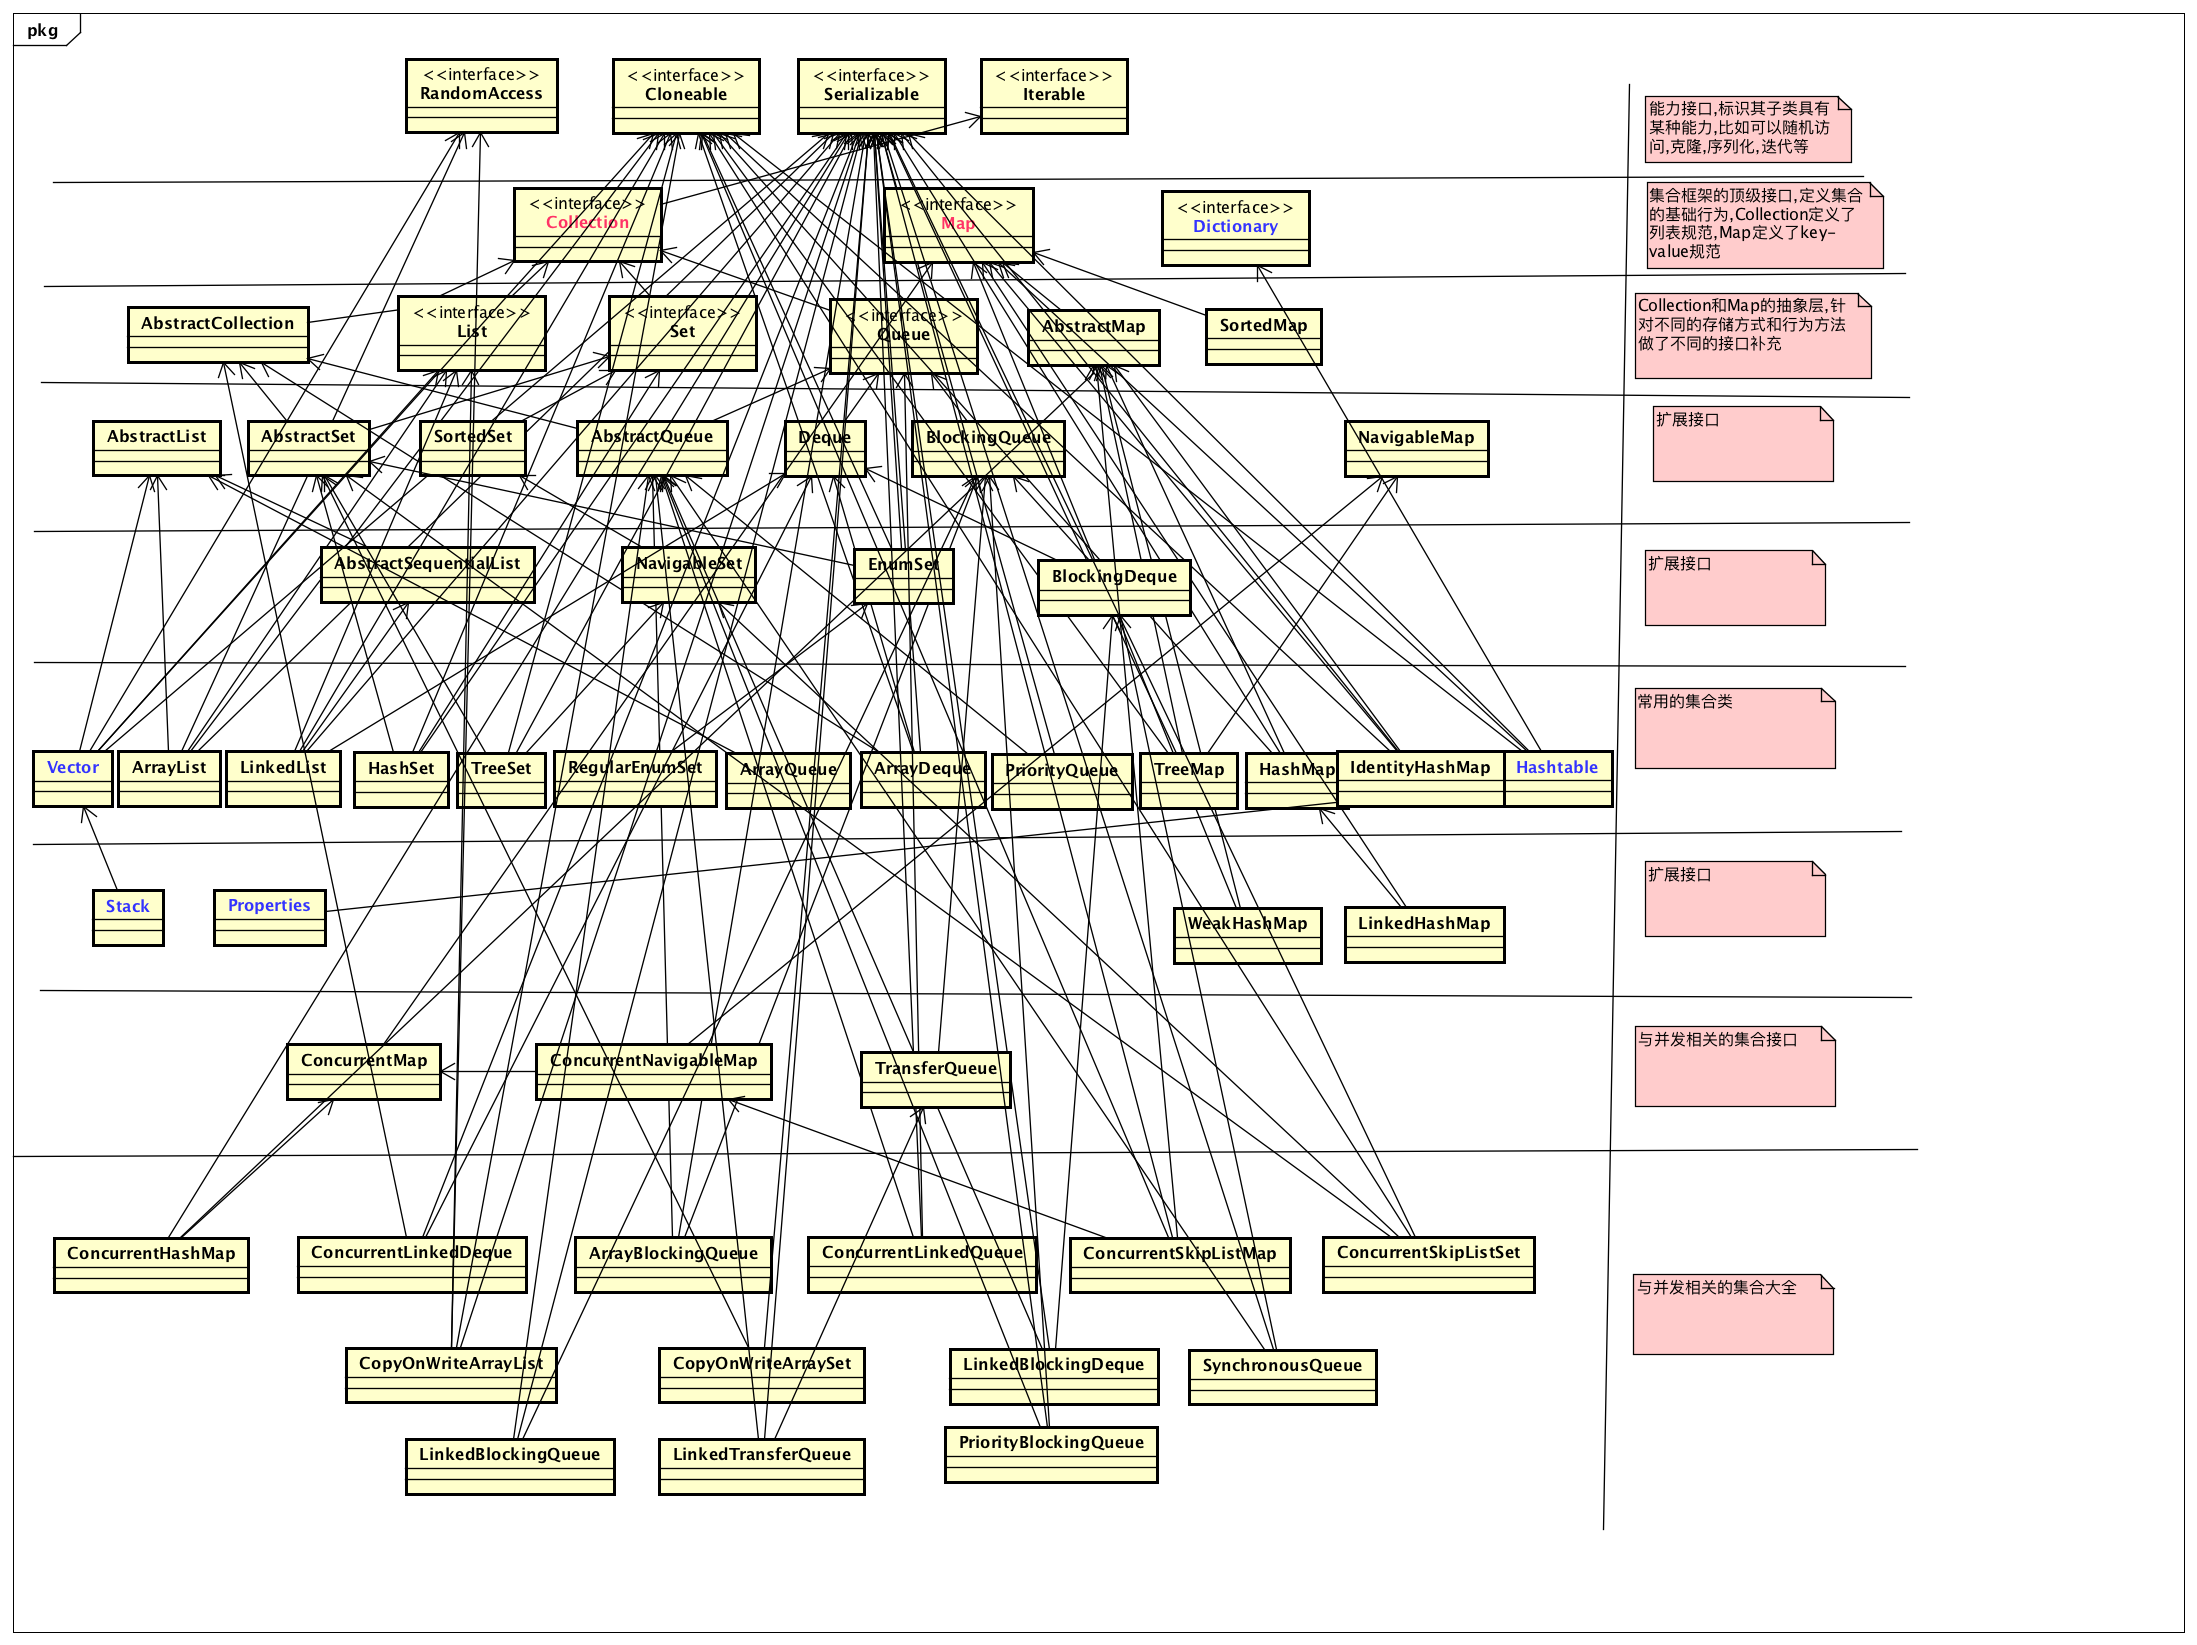
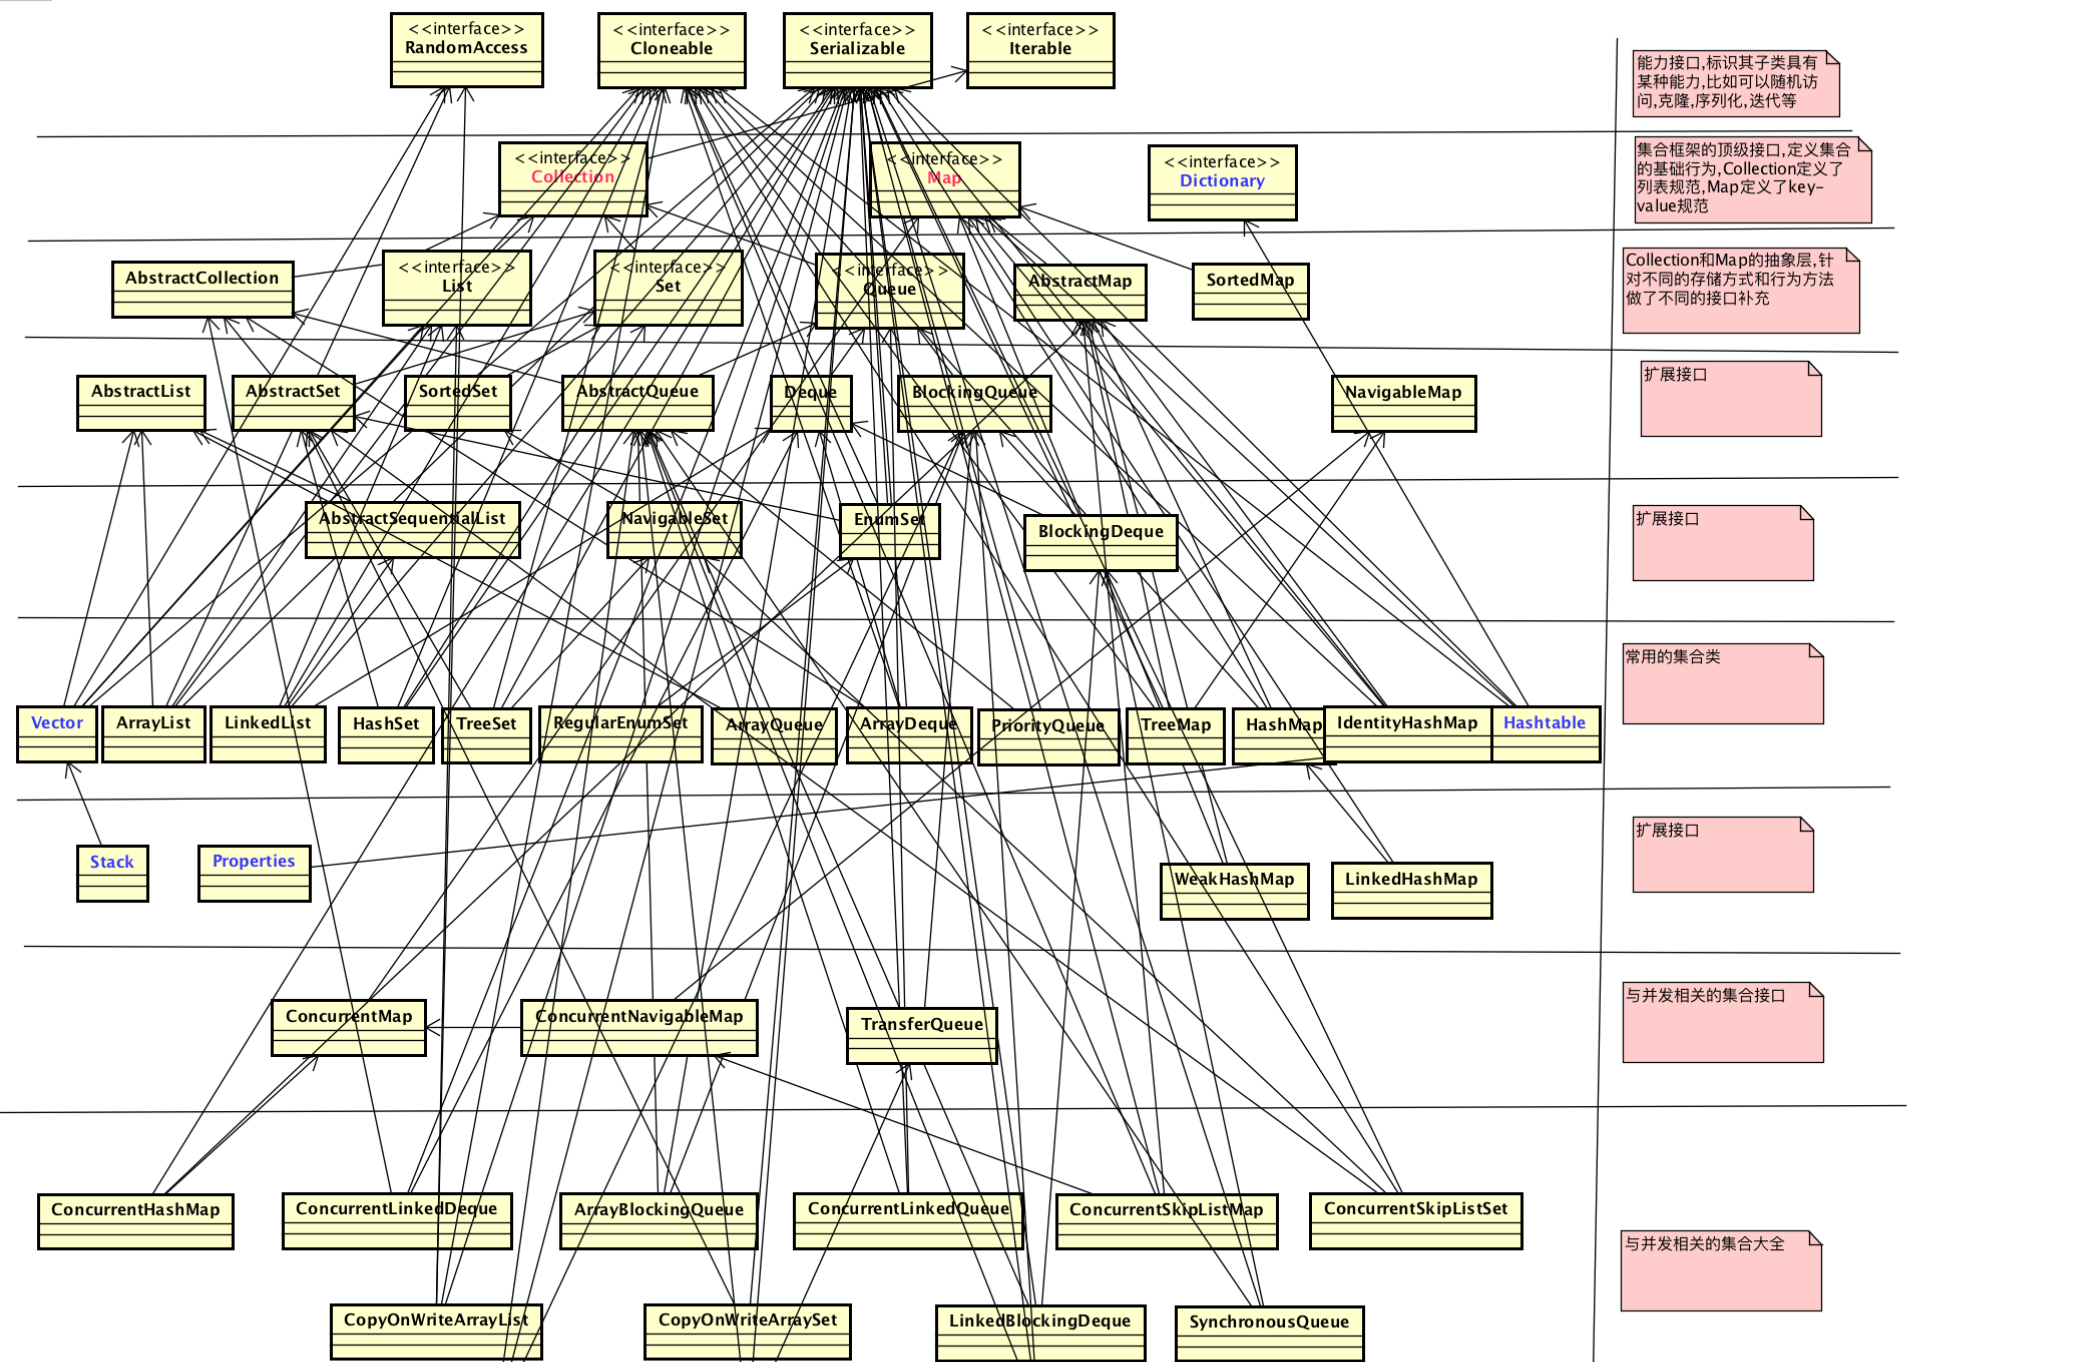
list的线程安全问题

diff --git a/_posts/java/2017-06-21-java集合详解.md b/_posts/java/2017-06-21-java集合详解.md
@@ -317,7 +317,7 @@ modCount++;
 
 如果要深入理解JAVA集合,那么有必要了解JAVA集合的层次,如下图:
 
-![JAVA集合层次](https://raw.githubusercontent.com/felayman/felayman.github.io/master/assert/s.png =400 x300)
+![JAVA集合层次](https://raw.githubusercontent.com/felayman/felayman.github.io/master/assert/s.png)
 
 ###   顶层接口  Iterable,Serializable,RandomAccess,Cloneable
 
